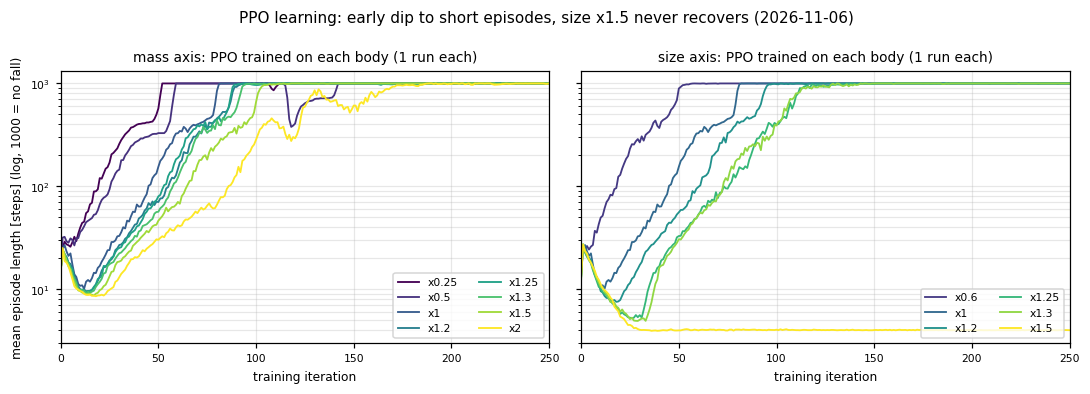
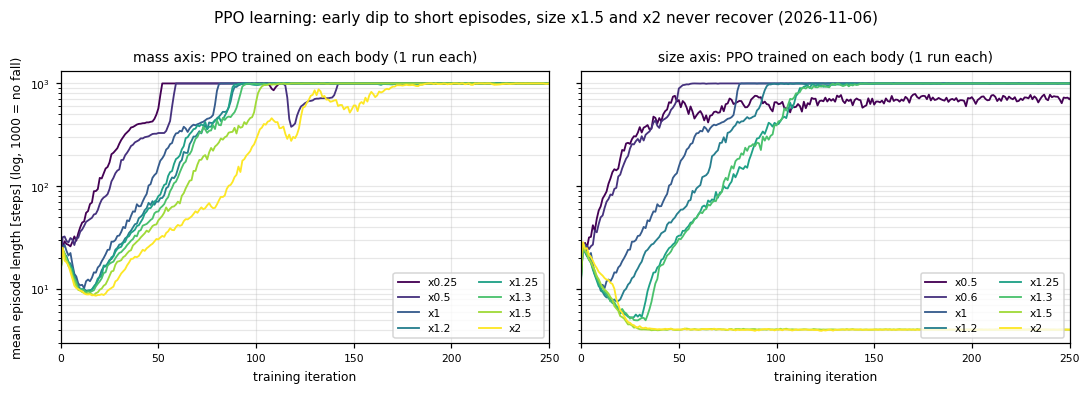
go1_body_scale_zeroshot: PPO stage done - every Vintix/expert collapse lies inside the range the body can walk (PPO >=99% at mass 0.25-2.0x, size 0.5-1.3x); size 1.5x/2.0x PPO training failed the same way (#9); REPORT updated (autopilot tick)

diff --git a/vintix_go2/go1_body_scale_zeroshot/make_figures.py b/vintix_go2/go1_body_scale_zeroshot/make_figures.py
@@ -272,7 +272,7 @@ def plot_ppo_learning_curves(out: Path) -> Path:
         ax.tick_params(labelsize=7)
         ax.legend(fontsize=7, ncol=2, loc="lower right")
     axes[0].set_ylabel("mean episode length [steps] (log, 1000 = no fall)", fontsize=8)
-    fig.suptitle(f"PPO learning: early dip to short episodes, size x1.5 never recovers ({time.strftime('%Y-%m-%d')})",
+    fig.suptitle(f"PPO learning: early dip to short episodes, size x1.5 and x2 never recover ({time.strftime('%Y-%m-%d')})",
                  fontsize=10)
     fig.tight_layout()
     out.parent.mkdir(parents=True, exist_ok=True)

diff --git a/vintix_go2/go1_body_scale_zeroshot/REPORT.md b/vintix_go2/go1_body_scale_zeroshot/REPORT.md
@@ -1,13 +1,14 @@
 # Go1 質量・サイズ変化のゼロショット境界 — 実験レポート
 
-> やったこと: Go1 の質量だけ／大きさだけを変えた改造 Go1 で、Vintix のゼロショットと流用した Go1 PPO 専門家を評価。第 1 段階（60 点 × 1 回）と、第 2 段階の境界付近 26 点 × 10 シード（1 点 1000 エピソード）
-> これから: 体ごとに PPO をゼロから学習して「体そのものが歩けるか」を確認（自動実行中）、残りの点の 10 シード評価。判断待ち: 質量 × 大きさの同時変更（#7）、二極化の原因の切り分け（#8）
+> やったこと: Go1 の質量だけ／大きさだけを変えた改造 Go1 で、Vintix のゼロショットと流用した Go1 PPO 専門家を評価。第 1 段階（60 点 × 1 回）と、第 2 段階の境界付近 26 点 × 10 シード（1 点 1000 エピソード）。さらに 16 点で、その体でゼロから PPO を学習して「体そのものが歩けるか」を確認
+> これから: 残りの点の 10 シード評価（自動実行中）。判断待ち: 質量 × 大きさの同時変更（#7）、二極化の原因の切り分け（#8）、大きさ 1.5 倍以上の PPO の学習失敗の切り分け（#9）
 
 ---
 
 ### 概要
 
 重い・大きい側では、流用した専門家は両軸とも **1.1〜1.15 倍**（1.15 倍で完走 38〜51%、1.2 倍で 0%）で崩れ、Vintix は **1.25〜1.3 倍**（1.25 倍で 84〜85%、1.3 倍で 0〜6%）まで歩ける。この上限は 10 シードすべてで動かない。
+**どちらの崩れも体の限界ではない**: その体でゼロから学習した PPO は質量 0.25〜2.0 倍・大きさ 0.5〜1.3 倍のすべてで 99% 以上完走し、報酬も通常体並み（18.5〜21.9）。Vintix の上限は、体が歩ける範囲よりかなり内側にある。大きさ 1.5・2.0 倍は PPO の学習自体が失敗した（#9）。
 ただし境界付近の Vintix は環境ごとに「ずっと歩ける側」と「低い側（専門家と同じ 1.15 倍から崩れる）」に分かれ、低い側に入るのは両軸とも 100 環境中 13 個。どちらに入るかは通常体の 1 本目の報酬でほぼ事前に分かる（事前予測は 450 個中 445 個一致）。
 軽い側は Vintix が質量 0.25 倍でも完走 95% で指令に近い速さで歩けるが、小さい側（大きさ 0.5〜0.7 倍）は転ばないだけで速度が指令の半分以下。
 
@@ -19,6 +20,7 @@
 
 - モデル: `models/go1_without/go1_without/0001_epoch`（Go1 を学習していない Vintix）を追加学習なしで使う。正規化は既知 3 タスク平均（ISCIIA と同じ）
 - 比較: 通常の Go1 で学習した PPO 専門家 `model_2000.pt` を改造体にそのまま流用
+- 体の限界の確認: 16 点（質量 0.25, 0.5, 1.0, 1.2, 1.25, 1.3, 1.5, 2.0 / 大きさ 0.5, 0.6, 1.0, 1.2, 1.25, 1.3, 1.5, 2.0）で、その体で PPO を 500 反復ゼロから学習（各 1 本、4096 環境）し、同じ評価を 10 シード
 - 評価: 各点 シード 0〜9 × 10 環境 × 10 エピソード（最大 1000 step）。共通スクリプトは変更せず、実験ディレクトリ内の `ScaledGo1Env` で差し替え。`pipeline.py` で自動実行
 
 ### 実験内容・設定
@@ -40,14 +42,26 @@
 | 専門家 質量 | 0 | 39.2（33〜48） | 96.3 | 99.9 | 96.4 | 50.8（42〜61） | 0 | 0 | 0 |
 | Vintix 大きさ | 75.7※ | 98.0 | 85.4 | 100 | 100 | 93.5（73〜100） | 87.0（50〜100） | 84.6（50〜97） | 5.8（2〜9） |
 | 専門家 大きさ | 0 | 0 | 4.3 | 99.9 | 96.8 | 37.7（27〜44） | 0 | 0 | 0 |
+| **PPO（その体で学習）質量** | 100 | — | — | 99.7 | — | — | 99.5 | 100 | 100 |
+| **PPO（その体で学習）大きさ** | 100 | — | 100 | 99.7 | — | — | 99.0 | 100 | 100 |
 
-※ 大きさ 0.5 倍の Vintix はシード 9 を評価中のため 9 シード。質量 0.25・0.4 倍の Vintix は 94.6・99.7%、専門家は 0%。
+質量 0.25・0.4 倍の Vintix は 94.6・99.7%、専門家は 0%。PPO は質量 0.25・1.5・2.0 倍で 100 / 100 / 99.9%、大きさ 1.5・2.0 倍で 0%（学習の失敗、下記）。
+PPO の報酬は 18.5（大きさ 0.5 倍）〜21.9 で、通常体（21.15）とほぼ同じ。「—」は PPO を学習していない倍率。
 
-![質量軸の完走率と報酬（Vintix は 10 シード平均 ± 標準偏差）](figures/mass_completion_return_20261104.png)
+![質量軸の完走率と報酬。青 = Vintix、灰 = 流用した専門家、緑 = その体で学習した PPO（10 シード平均 ± 標準偏差。質量 0.7〜0.9、1.75 倍以上の Vintix・専門家はシード 0 のみ）](figures/mass_completion_return_20261104.png)
 `figures/mass_completion_return_20261104.png`
 
-![大きさ軸の完走率と報酬](figures/size_completion_return_20261104.png)
+![大きさ軸の完走率と報酬（緑の 1.5・2.0 倍の 0% は学習の失敗で、体の限界とは言えない）](figures/size_completion_return_20261104.png)
 `figures/size_completion_return_20261104.png`
+
+**大きさ 1.5・2.0 倍では PPO の学習が失敗した**
+
+どの体の学習も最初の 10〜40 反復で「すぐ倒れる」方向へ落ち込み（倒れても罰がなく、最初は 1 ステップごとの報酬が負なので早く終わるほど損が小さい）、そこから立ち直る。
+落ち込みは体を大きくするほど深く長く（最小エピソード長 大きさ 1.0 倍 10.1 → 1.3 倍 4.9 ステップ）、1.5・2.0 倍は 500 反復まで 4 ステップのまま戻らなかった。
+評価でも 1000 本すべてが開始 3〜5 ステップで自分から傾いて打ち切られる（同じ 1.5 倍で専門家・Vintix は中央値 約 80 ステップもつ）。学習の失敗 1 本ずつなので「歩けない体」とは言えない（#9）。
+
+![PPO の学習曲線（平均エピソード長、対数軸）](figures/ppo_learning_curves_20261104.png)
+`figures/ppo_learning_curves_20261104.png`
 
 **境界付近の Vintix は環境ごとに二極化する**
 
@@ -78,20 +92,22 @@
 - 第 1 段階は各点 1 回だけで、境界付近の値（例: 質量 1.2 倍で報酬 16.86 ± 5.26）が評価し直すたびに変わった → シード 0〜9 を固定して 10 回評価する第 2 段階に切り替えた
 - 予測の照合を完走で数えると 1.15 倍で側を分けられなかった（低い側も報酬約 7 で完走することがある）→ 報酬（2〜10 本目の平均 < 15）で数えるよう統一した
 - 当初 `go1_env.py` を直接編集した → 戻し、実験ディレクトリの `ScaledGo1Env` に閉じた
+- 最初の PPO 学習が、並列の Vintix 評価 3 本と GPU メモリを取り合って落ちた（CUDA OOM）→ `pipeline.py --max_evals_with_train 0` で学習中は評価を走らせないようにして再起動した
 
 ### 考察・いま言えること
 
 - **歩ける上限は Vintix が専門家より 1 刻み先（1.25〜1.3 倍 対 1.1〜1.15 倍）。10 シード両軸で動かない。** ただし質量 1.25 倍の速度は 0.32 m/s（指令の 6 割強、大きさ 1.25 倍は 0.39 m/s）で、完走だけで「適応できた」とは言えない
+- **Vintix・専門家の崩れは、測った範囲ではどれも体の物理的な限界ではなく方策の限界。** その体で学習した PPO は質量 2.0 倍（26.2 kg）・大きさ 1.3 倍（太もも 28 cm）でも 99% 以上完走する。Vintix の 1.3 倍の全滅も、専門家の軽い・小さい側の崩れも、この範囲の内側。つまり「どれくらい体が違うとゼロショットで適応できないか」の答え（1.25〜1.3 倍）は、体ではなく Vintix の汎化の幅で決まっている
+- 体を重く・大きくするほど PPO の学習の立ち上がりは遅れる（平均エピソード長 1000 到達 質量 0.25 倍 52 → 2.0 倍 189 反復）が、最終性能は同じ
 - **Vintix の重い側の成績は「どちらの側に入るか」でほぼ決まる。** 低い側に入った環境は専門家と同じ 1.15 倍から崩れ、10 本の間に抜け出せない。側は通常体の 1 本目の報酬で事前にほぼ分かり、評価で環境ごとに入る乱数は 1 本目の初期のずれだけ（コードで確認）なので、1 本目の動きが文脈に残って歩き方を固定していると考えられる（推測）
 - **軽い側は Vintix が明らかに広い**（質量 0.25 倍で 95%、専門家は 0.5 倍以下で 0%）。小さい側は転ばないだけで速度が足りない
 - **質量と大きさで崩れる倍率がほぼ同じ。** ゲインとトルク上限が固定なので、姿勢を保つトルク（質量 × 脚の長さに比例）で決まっている可能性（未検証、#7）
-- **まだ言えないこと:** 1.3 倍で崩れるのが Vintix の限界か、体そのものが歩けないのか（PPO 待ち）。1 本目の報酬が「なぜ」側を決めるか、1.25 倍の 1 本目だけの転倒が文脈内の適応か（どちらも #8 の対照が必要）。1 本目 15.15〜15.34 の環境が本当の境目なのか数値の偶然なのか
+- **まだ言えないこと:** 大きさ 1.5 倍以上が歩ける体かどうか（PPO の学習失敗 1 本ずつ、#9）。PPO は各倍率 1 本の学習なので学習の失敗率は分からない。1 本目の報酬が「なぜ」側を決めるか、1.25 倍の 1 本目だけの転倒が文脈内の適応か（どちらも #8 の対照が必要）。1 本目 15.15〜15.34 の環境が本当の境目なのか数値の偶然なのか
 
 ### 次の予定
 
-- 体ごとに PPO を 500 反復ゼロから学習して 10 シード評価（16 点、自動実行中。境界付近の完了後に開始）
-- 残りの点（質量 0.7〜0.9、1.75〜4.0 など）の 10 シード評価（自動実行中）
-- 判断待ち: 質量と大きさを同時に変える検証（#7、約 6 GPU 時間）、二極化の原因の切り分け（#8、約 10 GPU 時間）
+- 残りの点（質量 0.7〜0.9、1.75〜4.0、大きさ 0.8・0.9・1.4・1.75 など）の 10 シード評価（自動実行中、約 23 時間）
+- 判断待ち: 質量と大きさを同時に変える検証（#7、約 6 GPU 時間）、二極化の原因の切り分け（#8、約 10 GPU 時間）、大きさ 1.5 倍以上の PPO の学習失敗の切り分け（#9、まずシード違い 3 本 約 2.3 GPU 時間）
 
 ---
 
@@ -161,7 +177,29 @@ ISCIIA では未知ロボットのゼロショットで Go1 / A1 は歩け、Go2
 - 変更点: 刻みを追加（質量 0.55, 1.15, 1.25, 1.35 / 大きさ 0.55, 0.65, 1.15, 1.25, 1.35）、シード 0〜9 で評価
 - 結果: 冒頭の表のとおり。シード 0 の段階で「第 1 段階の両方約 1.2 倍」は刻みが粗かっただけで、専門家 1.15〜1.2 倍、Vintix 1.25〜1.3 倍と分かれた
 - 新しく分かったこと: 境界付近の Vintix は環境ごとに二極化し、シードのぶれの正体はその環境の数。シード 3 以降は通常体の 1 本目から重い側の結果を事前に予測して照合した（経過は README の「実行ログ」）
-- 残課題: 二極化の原因（#8）、上限が体の限界かどうか（PPO）
+- 残課題: 二極化の原因（#8）、上限が体の限界かどうか（PPO → 実験4）
+
+### 実験4: その体でゼロから学習した PPO（16 点 × 学習 1 本 × 評価シード 0〜9）
+
+- 方法: `run_experiment.py --worker train_ppo`（共通 `train.py` の学習を `ScaledGo1Env` で呼ぶ）。500 反復、4096 環境、1 本 約 35 分（GPU 単独）。出力 `ppo/<axis>/s<倍率>/`
+- 事前予測: 質量 1.25・1.3 倍と大きさ軸（1.0〜1.5 倍、0.6 倍）は学習の開始前・評価の前に README に書いてコミット（1555114、19fa8b1）。1.5 倍（大きさ）の「90% 以上」以外は当たった
+- 結果（完走率・報酬）:
+
+| 倍率 | 質量軸 PPO | 大きさ軸 PPO |
+|------|-----------|-------------|
+| 0.25 | 100%、21.90 | — |
+| 0.5 | 100%、20.62 | 100%、18.48 |
+| 0.6 | — | 100%、21.61 |
+| 1.0 | 99.7%、21.15 | 99.7%、21.15 |
+| 1.2 | 99.5%、21.05 | 99.0%、20.85 |
+| 1.25 | 100%、21.80 | 100%、20.69 |
+| 1.3 | 100%、21.66 | 100%、20.75 |
+| 1.5 | 100%、21.10 | **0%、−0.02（学習失敗）** |
+| 2.0 | 99.9%、20.90 | **0%、−0.07（学習失敗）** |
+
+- 学習の立ち上がり（平均エピソード長が初めて 1000 に達した反復）: 質量 0.25 / 0.5 / 1.0 / 1.5 / 2.0 倍 = 52 / 59 / 82 / 114 / 189、大きさ 0.6 / 1.0 / 1.2 / 1.25 / 1.3 倍 = 57 / 82 / 102 / 136 / 131。大きさ 0.5 倍は学習中 1000 に届かず約 885 で頭打ち（評価は決定的な行動で 100% 完走）
+- 転倒の時刻: PPO の転倒はほぼすべて 1 本目の開始直後（質量 1.2 倍は 25〜60 ステップ、大きさ 1.2 倍は 9〜11 ステップ）。2〜10 本目はほぼ全数完走
+- 大きさ 1.5・2.0 倍の失敗: 1 反復目の 1 ステップあたり報酬は大きさ 1.0 / 1.3 / 1.5 倍 = −0.010 / −0.025 / −0.034。1.5 倍の罰の大半は高さの誤差と上下方向の速度で、高い開始位置（0.60 m）からゼロ行動で立てる高さ（約 0.45 m）まで落ちる間の罰と考えられる（推測）
 
 ## 6. 結果まとめ
 
@@ -170,21 +208,23 @@ ISCIIA では未知ロボットのゼロショットで Go1 / A1 は歩け、Go2
 - 小さい側: Vintix は 0.5 倍で 76%、0.55〜0.7 倍で 85〜99% だが速度 0.16〜0.28 m/s。専門家は 0.6 倍以下で 0〜4%
 - 低い側に入る環境: 両軸とも 100 個中 13 個。事前予測 450 個中 445 個一致（外れは 1 本目 15.15〜15.34 だけ）
 - 1.25 倍で 1 本目だけ転ぶ環境: 質量 27/87、大きさ 23/87、両軸共通 10 個（期待値 約 8.5）
+- その体で学習した PPO: 質量 0.25〜2.0 倍の 8 点と大きさ 0.5〜1.3 倍の 6 点で 99% 以上完走（報酬 18.5〜21.9）。大きさ 1.5・2.0 倍は学習失敗で 0%
 - 全数値: `results.csv`（シード付き）、`results_single_run.csv`（第 1 段階）
 
 ## 7. 考察
 
-- 上限の差（1 刻み）は小さいが 10 シードで一貫している。ただし Vintix の上限の先の 1.3 倍で崩れるのが方策の限界か体の限界かは、PPO の結果まで切り分けられない
+- 上限の差（1 刻み）は小さいが 10 シードで一貫している。Vintix の上限の先の 1.3 倍の崩れは、その体で学習した PPO が 100% 歩けるので体の限界ではなく方策の限界
+- PPO は各倍率 1 本の学習なので、「歩ける体である」ことの証明にはなるが、失敗した 1 本（大きさ 1.5・2.0 倍）は「歩けない体」の証明にならない。学習の「すぐ倒れる」局所解は体を大きくするほど深くなるので、開始高さ・報酬・シードを変えた再学習で切り分ける（#9）
+- #7 のゼロ行動プローブ（質量 1.3 倍で 10 環境中 4 転倒）は、学習した方策なら補える。#7 の「質量 × 脚の長さ」仮説は体の限界ではなく「通常体で得た方策が補える範囲」の仮説として読むべき
 - 重い側の Vintix の平均値は「低い側の環境の数」の揺れで動くので、シード平均 ± 標準偏差だけで比べると誤解しやすい。環境単位の割合で報告する
 - 低い側を決めるのが初期状態そのものか文脈の始まり方かは、#8 の対照（初期のずれの記録、文脈を切った評価、1 本目もずれなし）で確かめる必要がある
 - 第 1 段階の「質量 1.0 倍で 1 本目 17.9 → 終盤 14.8」も同じ現象の一部で、通常体でも 1 本目の高い報酬は 2 本目から約 14.8 にそろう
 
 ## 8. 今後の予定
 
-1. PPO を 16 点でゼロから学習して 10 シード評価（`pipeline.py` が境界付近の完了後に自動で開始）
-2. 残りの点の 10 シード評価（自動実行中）
-3. `run_experiment.py` の `collect_rows` の修正（専門家で 10 本を超えた分を除く）と `--stage report` での再集計（パイプライン完了後）
-4. 判断待ち: #7（質量 × 大きさ）、#8（二極化の原因）
+1. 残りの点の 10 シード評価（自動実行中、2026-11-07 18:00 UTC ごろ完了見込み）
+2. `run_experiment.py` の `collect_rows` の修正（専門家で 10 本を超えた分を除く）と `--stage report` での再集計（パイプライン完了後）
+3. 判断待ち: #7（質量 × 大きさ）、#8（二極化の原因）、#9（大きさ 1.5 倍以上の PPO の学習失敗の切り分け）
 
 ## 9. 成果物パス
 
